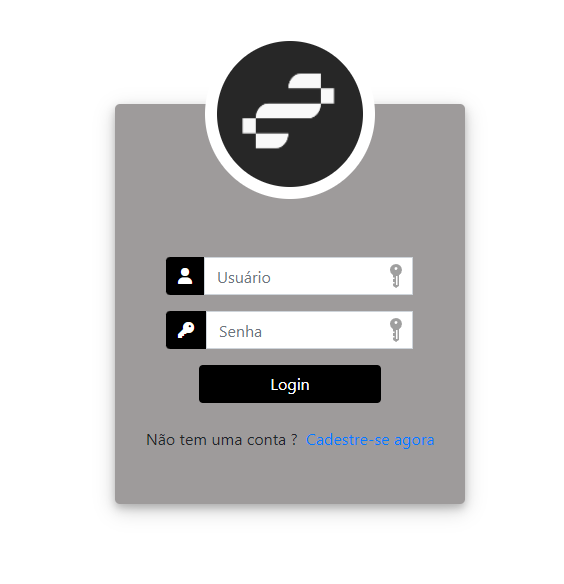
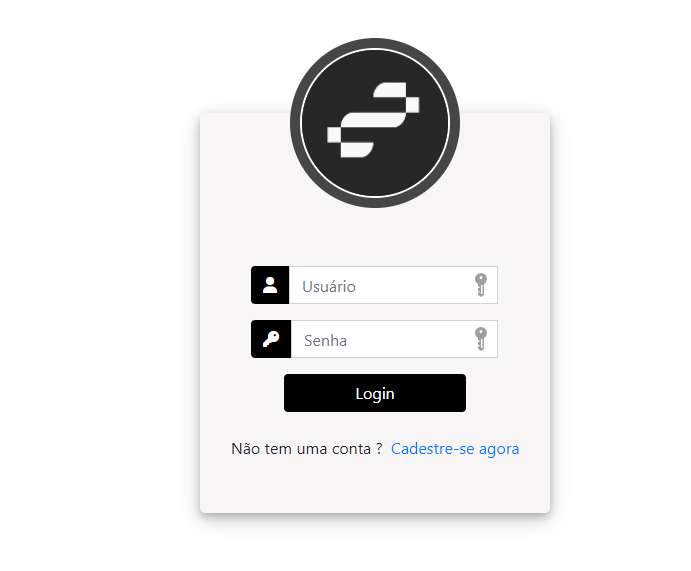
Atualização imagem de apresentação.
Melhoria na exibição de erros da interface de cadastro de leads.

diff --git a/src/app/components/novo-lead-component/novo-lead-component.component.ts b/src/app/components/novo-lead-component/novo-lead-component.component.ts
@@ -72,6 +72,18 @@ export class NovoLeadComponentComponent implements OnInit {
 
   grava_Lead(nome: string, telefone: string, email: string){
 
+        /*
+    Apaga o conteúdo da <div> responsável pelos erros.
+    Essa parte é necessária para evitar acúmulo de erros na tela
+    mesmo com os erros corrigidos.
+    */
+    document.getElementById("campo_mensagens").innerHTML = "";
+    document.getElementById("campo_mensagens").innerHTML = "<div class = 'campo_erros' id = 'campo_erros' style = 'font-size: 9pt;color: rgba(255, 0, 0, 0.603);'></div>";
+
+    //Cria a variavel para referencia ao campo de erros.
+    var mostrar_erros_usuario = document.getElementById("campo_erros");
+
+    //Declaração das constantes das checkboxes.
     const check_rpa = document.getElementById("customCheck1") as HTMLInputElement;
     const check_produto_digital = document.getElementById("customCheck2") as HTMLInputElement;
     const check_analytics = document.getElementById("customCheck3") as HTMLInputElement;
@@ -82,30 +94,39 @@ export class NovoLeadComponentComponent implements OnInit {
     
     // Variáveis para exibição dos erros.
     var error = '';
-    var error_existe = false;
 
     //Verifica se o campo nome da empresa não está vazio e se ele possui pelo menos 4 caracteres.
     if (nome == "" || nome.length < 4){
-      error = error + "Nome da empresa está vazio ou tem menos de 4 caracteres.\n";
-      error_existe = true;
+      error = "• Nome da empresa está vazio ou tem menos de 4 caracteres.\n";
+      var p = document.createElement("p");
+      p.textContent = error;
+      mostrar_erros_usuario.appendChild(p);
     }
 
     //Verifica se o campo telefone não está vazio e se ele possui pelo menos 4 caracteres.
     if (telefone == "" || telefone.length < 4){
-      error = error + "Telefone da empresa está vazio ou tem menos de 4 caracteres.\n";
-      error_existe = true;
+      error = "• Telefone da empresa está vazio ou tem menos de 4 caracteres.\n";
+      var a = document.createElement("p");
+      a.textContent = error;
+      mostrar_erros_usuario.appendChild(a);
     }
 
     //Verifica se o campo de email é valido utilizando a expressão regular declarada anteriormente.
     if (regexp.test(email) == false){
-      error = error + "Por favor, digite um email válido.\n";
-      error_existe = true;
+      error = "• Por favor, digite um email válido.\n";
+
+      var b = document.createElement("p");
+      b.textContent = error;
+      mostrar_erros_usuario.appendChild(b);
     }
 
     //Caso todas sejam marcadas, marca novamente a checkbox de "marcar todas"
     if (check_rpa.checked == false && check_produto_digital.checked == false && check_analytics.checked == false && check_bpm.checked == false){
-      error = error + "Por favor, selecione uma opção de oportunidade.\n";
-      error_existe = true;
+      error = "• Por favor, selecione uma opção de oportunidade.\n";
+
+      var c = document.createElement("p");
+      c.textContent = error;
+      mostrar_erros_usuario.appendChild(c);
     }
 
     //Pega o nome de usuário do localstorage.
@@ -113,22 +134,25 @@ export class NovoLeadComponentComponent implements OnInit {
 
     //Verifica se a empresa já foi cadastrado pelo tipo de retorno
     if (typeof empresa === 'string') {
-      error = error + "Empresa já cadastrada.\n";
-      error_existe = true;
+      error = "• Empresa já cadastrada.\n";
     }
 
     //Verifica se o campo de numero de telefone somente tem números.
     if (/^\d+$/.test(telefone) == false){
-      error = error + "O campo telefone apenas aceita números.\n";
-      error_existe = true;
-    }
-
-    //Caso exista um ou mais erros, imprime na tela através de um alert.
-    if (error_existe == true){
-      alert(error);
+      error = "• O campo telefone apenas aceita números.\n";
     }
 
     else{
+
+      /*
+          Apaga o conteúdo da <div> responsável pelos erros.
+          Essa parte é necessária para remover os erros e informar que o usuário 
+          foi cadastrado com sucesso.
+          */
+          document.getElementById("campo_mensagens").innerHTML = "";
+
+          //Cria uma div para mostrar que o usuário obteve sucesso no seu cadastro.
+          document.getElementById("campo_mensagens").innerHTML = "<div class = 'campo_sucesso' id = 'campo_cadastro_sucesso' style = 'font-size: 12pt; color: rgba(18, 129, 27, 0.753);'></div>";
 
       //Variáveis para captura de oportunidades.
       var RPA_var = false;
@@ -166,7 +190,17 @@ export class NovoLeadComponentComponent implements OnInit {
       //Grava a empresa no armazenamento local.
       alert("Empresa adicionada com sucesso!");
       localStorage.setItem(nome, JSON.stringify(empresa));
-      this.route.navigate(['painel']);
+
+      //Adiciona a mensagem de sucesso ao campo de "login_sucesso".
+      var mostrar_sucesso_cadastro = document.getElementById("campo_cadastro_sucesso");
+      var sucesso = document.createElement("p");
+      sucesso.textContent = "• Empresa cadastrada com sucesso, redirecionando para o painel principal.";
+      mostrar_sucesso_cadastro.appendChild(sucesso);
+
+      setTimeout(() => 
+      {
+        this.route.navigate(['painel']);
+      },3000);
     }
   }
 

diff --git a/src/app/components/cadastro-component/cadastro-component.component.ts b/src/app/components/cadastro-component/cadastro-component.component.ts
@@ -67,7 +67,7 @@ export class CadastroComponentComponent implements OnInit {
       // Verifica se o campo nome não está vazio e se ele possui pelo menos 4 caracteres.
       // Caso existam erros, os mesmos são adicionados a div de erros.
       if (nome == "" || nome.length < 4){
-        error = error + "• Nome de usuário está vazio ou tem menos de 4 caracteres.";
+        error = "• Nome de usuário está vazio ou tem menos de 4 caracteres.";
         p.textContent = error;
         mostrar_erros_usuario.appendChild(p);
       }
@@ -95,7 +95,7 @@ export class CadastroComponentComponent implements OnInit {
       //Caso esteja tudo correto com as informações, exibe uma confirmação de usuário cadastrado.
       else {
 
-            /*
+          /*
           Apaga o conteúdo da <div> responsável pelos erros.
           Essa parte é necessária para remover os erros e informar que o usuário 
           foi cadastrado com sucesso.

diff --git a/src/app/components/novo-lead-component/novo-lead-component.component.html b/src/app/components/novo-lead-component/novo-lead-component.component.html
@@ -26,6 +26,9 @@
                         <div class="form-group">
                             <input type="text" class="form-control" placeholder="E-mail *" #email/>
                         </div>
+                        <div class = "campo_mensagens" id = "campo_mensagens">
+
+                        </div>
                     </div>
                     <div class="col-md-6">
                         <div class="container">

diff --git a/src/app/components/novo-lead-component/novo-lead-component.component.css b/src/app/components/novo-lead-component/novo-lead-component.component.css
@@ -22,18 +22,13 @@
 .form-control{
     border-radius:1.5rem;
 }
-.btnSubmit
-{
-    border:none;
-    border-radius:1.5rem;
-    padding: 1%;
-    width: 20%;
-    cursor: pointer;
-    background: #0062cc;
-    color: #fff;
-}
 
 .btn-primary{
     background-color: #1822DC;
     margin-bottom: 10px;
+}
+
+.campo_erros {
+	font-size: 9pt;
+	color: rgb(247, 7, 7);
 }
